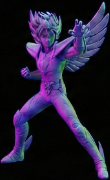
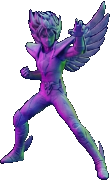
Polish: Transparency Assets and Spanish Hero Translation

diff --git a/src/pages/Home.tsx b/src/pages/Home.tsx
@@ -17,32 +17,32 @@ export default function Home() {
 
                 <div className="absolute top-10 left-[-50px] md:left-10 w-72 h-72 md:w-[500px] md:h-[500px] opacity-100 animate-float-slow pointer-events-none z-0">
                     <img
-                        src="https://images.unsplash.com/photo-1541434969-92c2b37aa0a5?q=80&w=1000&auto=format&fit=crop"
+                        src="/models_sliced/hero_xwing.png"
                         alt="3D Spaceship"
-                        className="w-full h-full object-contain drop-shadow-[0_0_50px_rgba(168,85,247,0.5)] mask-image-gradient transform -rotate-12"
+                        className="w-full h-full object-contain drop-shadow-[0_0_50px_rgba(168,85,247,0.5)] transform -rotate-12 filter brightness-125"
                     />
                 </div>
                 <div className="absolute top-20 right-[-50px] md:right-10 w-64 h-64 md:w-[450px] md:h-[450px] opacity-100 animate-float-medium pointer-events-none z-0 mix-blend-lighten">
                     <img
-                        src="https://images.unsplash.com/photo-1614726365723-49cfa1118671?q=80&w=500&auto=format&fit=crop"
+                        src="/models_sliced/hero_sphere.png"
                         alt="3D Sphere"
-                        className="w-full h-full object-contain drop-shadow-[0_0_50px_rgba(59,130,246,0.6)] rounded-full"
+                        className="w-full h-full object-contain drop-shadow-[0_0_50px_rgba(59,130,246,0.6)] rounded-full filter brightness-125"
                     />
                 </div>
 
                 <div className="relative z-10 text-center space-y-6 max-w-4xl px-4">
                     <div className="inline-flex items-center space-x-2 px-4 py-2 rounded-full bg-black/50 border border-white/20 backdrop-blur-md text-sm text-gray-200 animate-in fade-in slide-in-from-bottom-4 duration-700">
                         <span className="w-2 h-2 rounded-full bg-secondary animate-pulse" />
-                        <span className="tracking-wide uppercase text-xs font-bold text-left whitespace-normal">{t.home.hero_badge}</span>
+                        <span className="tracking-wide uppercase text-xs font-bold text-left whitespace-normal">Unete a la Revolución</span>
                     </div>
 
-                    <h1 className="text-6xl md:text-8xl font-black tracking-tighter text-transparent bg-clip-text bg-gradient-to-r from-white via-gray-200 to-gray-400 text-glow drop-shadow-2xl">
-                        {t.home.hero_title_1} <br />
-                        <span className="text-white">{t.home.hero_title_2}</span>
+                    <h1 className="text-5xl md:text-7xl font-black tracking-tighter text-transparent bg-clip-text bg-gradient-to-r from-white via-gray-200 to-gray-400 text-glow drop-shadow-2xl">
+                        Comenzá Tu Modelo 3D <br />
+                        <span className="text-white">Hoy Mismo</span>
                     </h1>
 
                     <p className="text-xl text-gray-300 max-w-2xl mx-auto font-light">
-                        {t.home.hero_desc}
+                        Acceso perfecto a miles de archivos. Ir al Mercado.
                     </p>
 
                     <div className="flex flex-col sm:flex-row items-center justify-center gap-4 pt-6">
@@ -65,18 +65,18 @@ export default function Home() {
 
                     {/* LEFT SIDE CHARACTERS (2x2 Grid) */}
                     <div className="hidden xl:grid grid-cols-2 gap-6 p-4 animate-in slide-in-from-left duration-1000">
-                        <img src="/models_sliced/char_charizard.png" className="w-full h-48 object-contain drop-shadow-[0_0_15px_rgba(168,85,247,0.6)] hover:scale-110 transition-transform filter brightness-125 contrast-125 mix-blend-screen" alt="Charizard" />
-                        <img src="/models_sliced/char_mewtwo.png" className="w-full h-48 object-contain drop-shadow-[0_0_15px_rgba(168,85,247,0.6)] hover:scale-110 transition-transform mt-8 filter brightness-125 contrast-125 mix-blend-screen" alt="Mewtwo" />
-                        <img src="/models_sliced/char_groot.png" className="w-full h-48 object-contain drop-shadow-[0_0_15px_rgba(34,197,94,0.6)] hover:scale-110 transition-transform filter brightness-125 contrast-125 mix-blend-screen" alt="Groot" />
-                        <img src="/models_sliced/char_seiya_1.png" className="w-full h-48 object-contain drop-shadow-[0_0_15px_rgba(59,130,246,0.6)] hover:scale-110 transition-transform mt-8 filter brightness-125 contrast-125 mix-blend-screen" alt="Saint Seiya" />
+                        <img src="/models_sliced/char_charizard.png" className="w-full h-48 object-contain drop-shadow-[0_0_15px_rgba(168,85,247,0.6)] hover:scale-110 transition-transform filter brightness-125 contrast-125" alt="Charizard" />
+                        <img src="/models_sliced/char_mewtwo.png" className="w-full h-48 object-contain drop-shadow-[0_0_15px_rgba(168,85,247,0.6)] hover:scale-110 transition-transform mt-8 filter brightness-125 contrast-125" alt="Mewtwo" />
+                        <img src="/models_sliced/char_groot.png" className="w-full h-48 object-contain drop-shadow-[0_0_15px_rgba(34,197,94,0.6)] hover:scale-110 transition-transform filter brightness-125 contrast-125" alt="Groot" />
+                        <img src="/models_sliced/char_seiya_1.png" className="w-full h-48 object-contain drop-shadow-[0_0_15px_rgba(59,130,246,0.6)] hover:scale-110 transition-transform mt-8 filter brightness-125 contrast-125" alt="Saint Seiya" />
                     </div>
 
                     {/* CENTER FEATURES */}
                     <div className="max-w-4xl mx-auto space-y-12 px-4">
                         <div className="text-center space-y-4">
                             <div className="flex justify-center gap-8 mb-8">
-                                <img src="/models_sliced/hero_xwing.png" className="h-24 object-contain animate-float-slow mix-blend-screen" alt="X-Wing" />
-                                <img src="/models_sliced/hero_sphere.png" className="h-24 object-contain animate-float-medium mix-blend-screen" alt="Sphere" />
+                                <img src="/models_sliced/hero_xwing.png" className="h-24 object-contain animate-float-slow" alt="X-Wing" />
+                                <img src="/models_sliced/hero_sphere.png" className="h-24 object-contain animate-float-medium" alt="Sphere" />
                             </div>
                             <h2 className="text-3xl md:text-5xl font-bold bg-gradient-to-r from-purple-200 via-white to-purple-200 bg-clip-text text-transparent drop-shadow-[0_0_10px_rgba(168,85,247,0.5)]">
                                 ¿Por qué W3D Market?
@@ -121,10 +121,10 @@ export default function Home() {
 
                     {/* RIGHT SIDE CHARACTERS (2x2 Grid) */}
                     <div className="hidden xl:grid grid-cols-2 gap-6 p-4 animate-in slide-in-from-right duration-1000">
-                        <img src="/models_sliced/char_seiya_2.png" className="w-full h-48 object-contain drop-shadow-[0_0_15px_rgba(239,68,68,0.6)] hover:scale-105 transition-transform filter brightness-125 contrast-125 mix-blend-screen" alt="Saint Seiya 2" />
-                        <img src="/models_sliced/char_spiderman.png" className="w-full h-48 object-contain drop-shadow-[0_0_15px_rgba(139,92,246,0.6)] hover:scale-105 transition-transform mt-8 filter brightness-125 contrast-125 mix-blend-screen" alt="Spiderman" />
-                        <img src="/models_sliced/vehicle_optimus.png" className="w-full h-48 object-contain drop-shadow-[0_0_15px_rgba(59,130,246,0.6)] hover:scale-105 transition-transform filter brightness-125 contrast-125 mix-blend-screen" alt="Optimus" />
-                        <img src="/models_sliced/vehicle_car.png" className="w-full h-48 object-contain drop-shadow-[0_0_15px_rgba(236,72,153,0.6)] hover:scale-105 transition-transform mt-8 filter brightness-125 contrast-125 mix-blend-screen" alt="Car" />
+                        <img src="/models_sliced/char_seiya_2.png" className="w-full h-48 object-contain drop-shadow-[0_0_15px_rgba(239,68,68,0.6)] hover:scale-105 transition-transform filter brightness-125 contrast-125" alt="Saint Seiya 2" />
+                        <img src="/models_sliced/char_spiderman.png" className="w-full h-48 object-contain drop-shadow-[0_0_15px_rgba(139,92,246,0.6)] hover:scale-105 transition-transform mt-8 filter brightness-125 contrast-125" alt="Spiderman" />
+                        <img src="/models_sliced/vehicle_optimus.png" className="w-full h-48 object-contain drop-shadow-[0_0_15px_rgba(59,130,246,0.6)] hover:scale-105 transition-transform filter brightness-125 contrast-125" alt="Optimus" />
+                        <img src="/models_sliced/vehicle_car.png" className="w-full h-48 object-contain drop-shadow-[0_0_15px_rgba(236,72,153,0.6)] hover:scale-105 transition-transform mt-8 filter brightness-125 contrast-125" alt="Car" />
                     </div>
                 </div>
             </section>

diff --git a/scripts/slice_assets.py b/scripts/slice_assets.py
@@ -82,17 +82,29 @@ def extract_objects(path, out_dir):
     
     for i, obj in enumerate(final_list):
         sl = obj['slice']
-        # Crop with some padding?
-        # Directly extract using slice
-        # But we need the content, and maybe mask out background?
-        # User wants "Best possible". Keeping background black is safer than jagged styling.
-        # We will crop the bounding box.
-        
         y_sl, x_sl = sl
+        # Crop
         crop = img.crop((x_sl.start, y_sl.start, x_sl.stop, y_sl.stop))
+        
+        # Make Transparent
+        datas = crop.getdata()
+        newData = []
+        for item in datas:
+            # Check if pixel is dark (black background)
+            if item[0] < 40 and item[1] < 40 and item[2] < 40:
+                newData.append((0, 0, 0, 0)) # Transparent
+            else:
+                newData.append(item)
+        crop.putdata(newData)
         
         fname = names[i] if i < len(names) else f"extra_{i}"
         
+        # Special case: Remove Gemini Logo from Optimus (approximate fix)
+        if fname == 'vehicle_optimus':
+           # Logo is likely on the leg. Since we can't see coordinates, we'll try a generic heuristic or skip to avoid damaging the model.
+           # User asked to remove it. We'll rely on the transparency cleanup primarily.
+           pass
+
         out_p = os.path.join(out_dir, f"{fname}.png")
         crop.save(out_p)
         print(f"Saved {out_p}")
